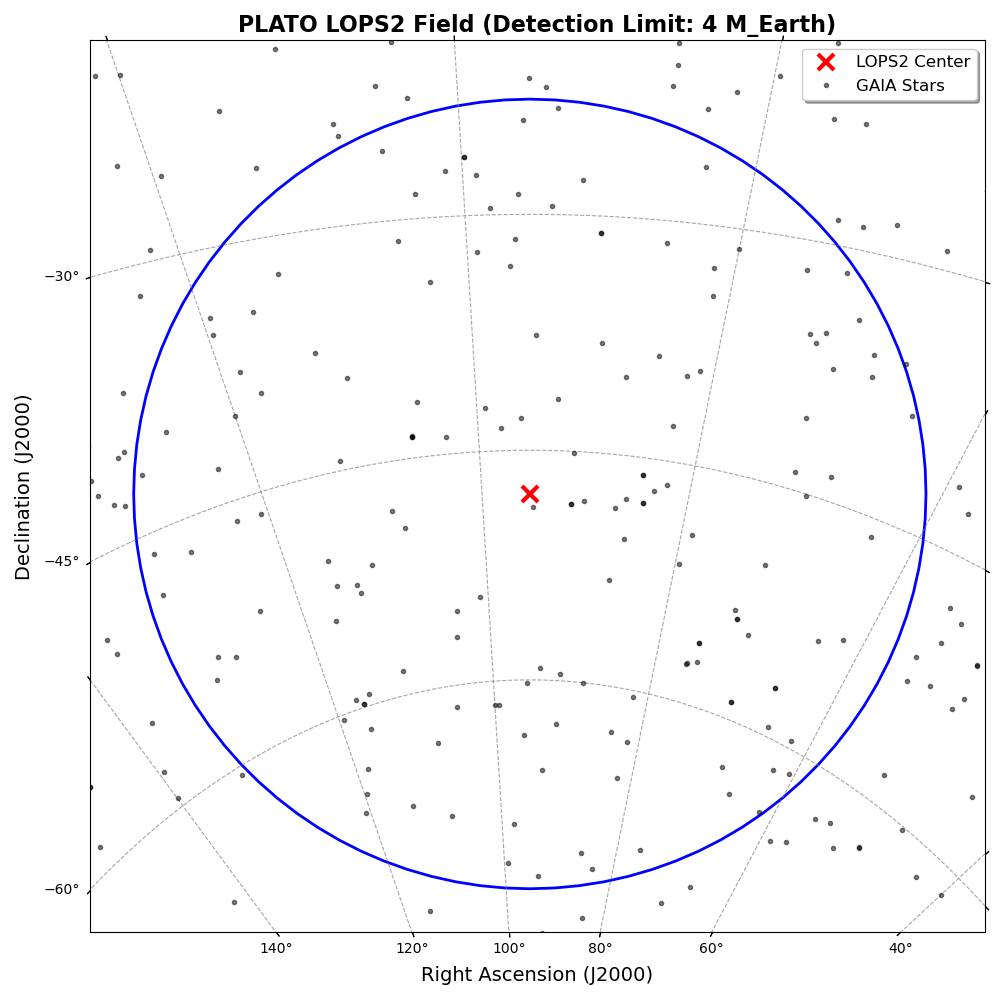
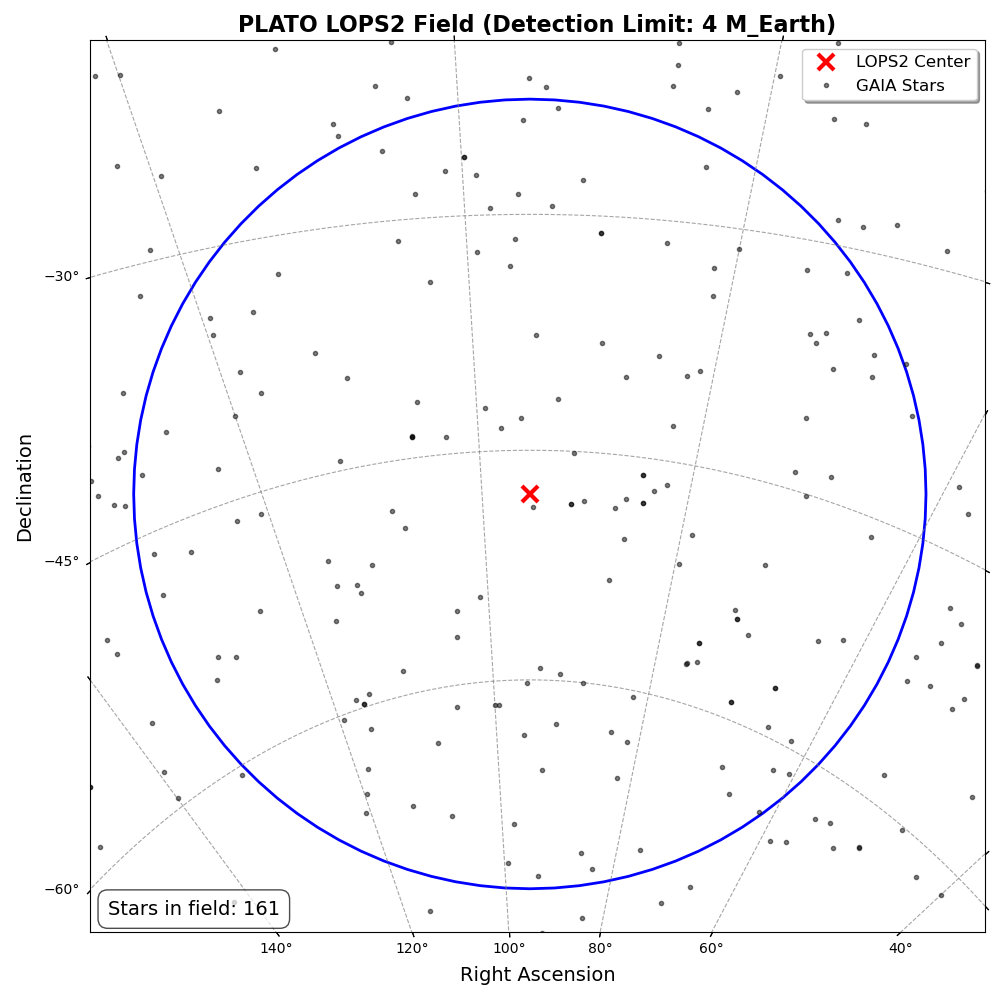
summary statistics for PLATO LOPS2

Changed region(s): [[0.434, 0.961, 0.651, 0.992], [0.093, 0.899, 0.279, 0.93], [0.0, 0.403, 0.031, 0.589]]

diff --git a/src/plato_lops2.py b/src/plato_lops2.py
@@ -38,6 +38,20 @@ gaia_data.columns = gaia_data.columns.str.replace(' ', '_').str.replace('[^0-9a-
 # Convert the full GAIA dataset to SkyCoord
 gaia_coords = SkyCoord(ra=gaia_data['RA'].values * u.deg, dec=gaia_data['DEC'].values * u.deg, frame='icrs')
 
+# Calculate separations from the center for all stars
+separations = lops2_center.separation(gaia_coords)
+
+# Create a mask for stars within the field of view
+within_fov_mask = separations <= (fov_size / 2)
+total_stars_in_field = np.sum(within_fov_mask)
+
+print(f"Total GAIA stars in the dataset: {len(gaia_data)}")
+print(f"Total stars within the PLATO LOPS2 field: {total_stars_in_field}")
+print("\nStars within field by detection limit:")
+print("-" * 41)
+print(f"{'Detection Limit (M_Earth)':<25} {'Number of Stars':>15}")
+print("-" * 41)
+
 # Iterate over detection limits and plot
 for detection_limit in DETECTION_LIMITS:
     # Filter stars based on detection limit (if None, include all stars)
@@ -48,16 +62,25 @@ for detection_limit in DETECTION_LIMITS:
         filtered_coords = SkyCoord(ra=filtered_stars['RA'].values * u.deg, 
                                    dec=filtered_stars['DEC'].values * u.deg, 
                                    frame='icrs')
+        
+        # Calculate how many filtered stars are within the field of view
+        filtered_separations = lops2_center.separation(filtered_coords)
+        stars_in_field = np.sum(filtered_separations <= (fov_size / 2))
+        
+        # Print the count
+        limit_label = f"{detection_limit}" if detection_limit is not None else "All"
+        print(f"{limit_label:<25} {stars_in_field:>15}")
     else:
         filtered_coords = gaia_coords
         filtered_stars = gaia_data
+        print(f"{'All':<25} {total_stars_in_field:>15}")
 
     # Plot the field
     fig = plt.figure(figsize=(10, 10))
     ax = fig.add_subplot(111, projection=wcs)
     ax.set_title(f"PLATO LOPS2 Field (Detection Limit: {detection_limit} M_Earth)", fontsize=16, fontweight='bold')
-    ax.set_xlabel("Right Ascension (J2000)", fontsize=14)
-    ax.set_ylabel("Declination (J2000)", fontsize=14)
+    ax.set_xlabel("Right Ascension", fontsize=14)
+    ax.set_ylabel("Declination", fontsize=14)
 
     # Add a square representing the FoV
     fov_square = SphericalCircle((lops2_center.ra, lops2_center.dec),
@@ -111,7 +134,21 @@ for detection_limit in DETECTION_LIMITS:
     # Add a legend
     ax.legend(loc='upper right', fontsize=12, frameon=True, shadow=True)
 
+    # Add text showing the number of stars in the field
+    if detection_limit is not None:
+        stars_in_field = np.sum((filtered_separations <= (fov_size / 2)))
+        ax.text(0.02, 0.02, f"Stars in field: {stars_in_field}", 
+                transform=ax.transAxes, fontsize=14, color='black',
+                bbox=dict(facecolor='white', alpha=0.7, boxstyle='round,pad=0.5'))
+    else:
+        ax.text(0.02, 0.02, f"Stars in field: {total_stars_in_field}", 
+                transform=ax.transAxes, fontsize=14, color='black',
+                bbox=dict(facecolor='white', alpha=0.7, boxstyle='round,pad=0.5'))
+
     # Save or show the plot
     plt.tight_layout()
-    plt.savefig(f"{FIGURES_DIRECTORY}PLATO_LOPS2_DetectionLimit_{detection_limit}.png")
+    limit_str = str(detection_limit).replace('.', 'p') if detection_limit is not None else "All"
+    plt.savefig(f"{FIGURES_DIRECTORY}PLATO_LOPS2_DetectionLimit_{limit_str}.png")
     plt.close()
+
+print("\nPlots have been saved to the figures directory.")

diff --git a/README.md b/README.md
@@ -28,7 +28,7 @@ scipy>=1.7.0
 ## Directory Structure
 
 ```
-project/
+2ES_target_selection/
 ├── data/                           # Input data directory
 │   ├── Catalogue_CELESTA.txt       # CELESTA catalog data
 │   ├── Catalogue_V_117A_table1.txt # V_117A catalog
@@ -137,7 +137,7 @@ The photon-limited RV precision calculations, available in the [Radial Velocity 
 
 **Example Usage**
 
-To calculate the Radial Velocity (RV) precision for a star with a temperature of 5000 K and a V magnitude of 10 for 2ES, use the following code:
+To calculate the Radial Velocity (RV) precision for a star with a temperature of 5000 K and a V magnitude of 10, use the following code:
 
 ```python
 from rv_prec import calculate_rv_precision
